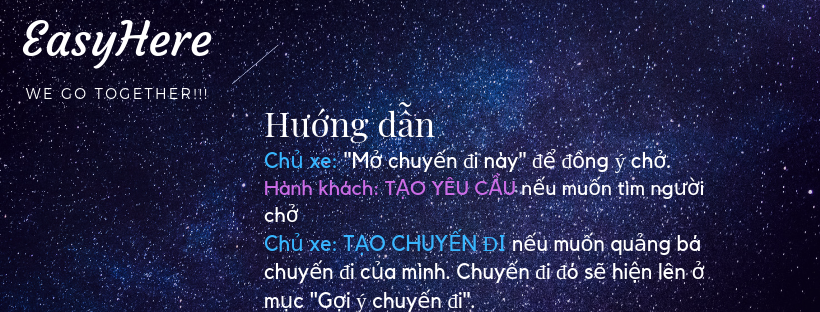
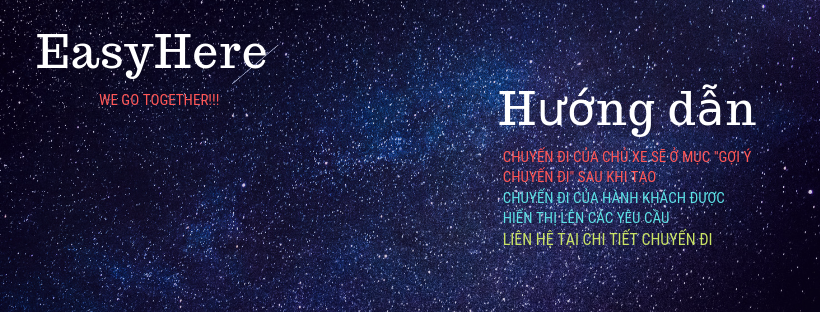
remove tao yeu cau

diff --git a/application/controllers/Trip.php b/application/controllers/Trip.php
@@ -260,7 +260,37 @@ class Trip extends CI_Controller {
 
         display('detail_trip', $data);    
     }
-
+    public function execute_with_data($data_sql){
+        unset($data_sql['code']);
+        $data_sql['asker'] = $data_sql['owner'];
+        unset($data_sql['owner']);
+        if ($this->needed_trip_ml->add_into($data_sql)){
+            $insert_id = $this->db->insert_id();
+            $link = 'click vào link <a href="'.site_url('trip/edit_need/'.$insert_id).'"> này </a> để xem yêu cầu vừa tạo.';
+            $message = get_message_success('Bạn đã tạo tạo yêu cầu thành công!<br>', $link);         
+            
+            /* Send for all of users who checked noti_email */
+            $string_from = $this->place_ml->get_by_primary($data_sql['start_from'])['name'];
+            $string_finish = $this->place_ml->get_by_primary($data_sql['finish_to'])['name'];
+            $header = 'Yêu cầu mới!_';
+            $content = 'Có một yêu cầu từ  '.$string_from. ' đến '.$string_finish.' vào lúc '.$data_sql['timestart'].' với giá '.$data_sql['price'].'đ. Bạn có thể nhận chuyến này không?';   
+            foreach ($this->user_ml->get_users_check_notif_email() as $user){                        
+                $email = $this->verify_ml->get_email($user['username']);
+                if ($email){
+                    $datasql = [
+                        'email' => $email, 
+                        'content' => $header.$content,
+                        'created_at' => get_current_time()
+                    ];
+                    $this->queue->add($datasql);                            
+                }                                        
+            }
+            /* Process in the queue */                                 
+            shell_exec('php '.escapeshellarg(FCPATH.'index.php')." queueprocess >/dev/null 2>/dev/null &");                    
+            /********        *******/
+            return ['message' => $message];
+        }    
+    }
     public function create_ask_trip(){
         if (!$this->session->userdata('user_logged')){
             redirect('login');
@@ -334,7 +364,11 @@ class Trip extends CI_Controller {
         } */       
         
         $data = ['owner' => $username, 'message'=>'', '_places' => $this->place_ml->get_all()];
-        
+        $current_user = $this->user_ml->get_by_primary($username);
+        if ($current_user['role'] == null){
+            redirect('trip/cap_nhat_thong_tin');
+        }
+
         if ($this->input->post()){            
             $check = $this->trip_ml->preparing_data();                        
             if ($check['status'] === false){
@@ -342,15 +376,37 @@ class Trip extends CI_Controller {
             }    
             else{
                 $data_sql = $check['data'];
-                // Tạo chuyến đi mới
-                if ($this->trip_ml->add_into($data_sql)){
-                    $insert_id = $this->db->insert_id();
-                    $link = 'click vào link <a href="'.site_url('trip/edit/'.$insert_id).'"> này </a> để xem chuyến đi vừa tạo.';
-                    $data['message'] = get_message_success('Bạn đã tạo chuyến đi thành công!<br>', $link);
-                }
+                // if la chu xe thi tao chuyen di
+                // neu la hanh khach thi tao yeu cau
+                if ($current_user['role'] != null){
+                    if ($current_user['role'] == 'chu_xe'){
+                        // Tạo chuyến đi mới
+                        if ($this->trip_ml->add_into($data_sql)){
+                            $insert_id = $this->db->insert_id();
+                            $link = 'click vào link <a href="'.site_url('trip/edit/'.$insert_id).'"> này </a> để xem chuyến đi vừa tạo.';
+                            $data['message'] = get_message_success('Bạn đã tạo chuyến đi thành công!<br>', $link);
+                        }
+                        else{
+                            $data['message'] = get_message_error('Tạo chuyến đi thất bại!');
+                        }
+                    }
+                    else{
+                        // tao yeu cau
+                        $info = $this->execute_with_data($data_sql);
+                        $data['message'] = $info['message'];                        
+                    }
+                }                     
                 else{
-                    $data['message'] = get_message_error('Tạo chuyến đi thất bại!');
-                }            
+                    // Tạo chuyến đi mới
+                    if ($this->trip_ml->add_into($data_sql)){
+                        $insert_id = $this->db->insert_id();
+                        $link = 'click vào link <a href="'.site_url('trip/edit/'.$insert_id).'"> này </a> để xem chuyến đi vừa tạo.';
+                        $data['message'] = get_message_success('Bạn đã tạo chuyến đi thành công!<br>', $link);
+                    }
+                    else{
+                        $data['message'] = get_message_error('Tạo chuyến đi thất bại!');
+                    }
+                }       
             }
         }
 
@@ -759,6 +815,13 @@ class Trip extends CI_Controller {
         $data = [
             'title' => 'Bạn đã mở một yêu cầu tương tự thành công!',
             'content' => 'Click vào <a href="'.site_url('trip/detail_need/'.$trip_id).'"> đây </a> để xem yêu cầu vừa tạo'  
+        ];
+        display('action_info', $data);
+    }
+    public function cap_nhat_thong_tin(){        
+        $data = [
+            'title' => 'Bạn là ai?',
+            'content' => 'Xin hãy cập nhật thông tin rằng bạn là Chủ xe hay Hành khách. Việc này sẽ giúp chúng tôi đưa ra những thông tin phù hợp hơn cho bạn.</br> <h3> Click vào <a href="'.site_url('edit_profile').'"> đây </a> để cập nhật và thực hiện lại thao tác.<br></h3> EasyHere xin chân thành cám ơn. '  
         ];
         display('action_info', $data);
     }

diff --git a/application/views/public/create_trip.php b/application/views/public/create_trip.php
@@ -40,16 +40,7 @@
                             <!-- Card content -->
                             <div class="card-body text-center">
                                 <!-- Edit Form -->
-                                <form method="post">
-                                    <div class="row">
-                                        <div class="col-md-12">
-                                            <div class="alert alert-info"> 
-                                                <strong>Lưu ý:</strong>                                                
-                                                Nếu tạo chuyến đi, nghĩa là bạn đang là chủ xe và đang cần tìm người để chở.
-                                                Nếu bạn muốn được chở, hãy bấm vào <a href="<?= base_url('trip/create_ask_trip') ?>"> đây </a> để tạo yêu cầu.
-                                            </div>  
-                                        </div>
-                                    </div>  
+                                <form method="post">                                   
                                     <div class="row">
                                         <div class="col-md-12">
                                             <?php echo $message; ?>
@@ -102,10 +93,25 @@
                                         <!--First column-->
                                         <div class="col-md-3">
                                             <div class="md-form mb-0">
-                                                <input type="text" id="form1" class="form-control validate" value="<?php echo $this->session->userdata('username'); ?>" disabled>
-                                                <label for="form2" data-error="wrong" data-success="right">Bạn là</label>
+                                                <?
+                                                $role = $this->user_ml->get_by_primary($this->session->userdata('username'));
+                                                if (isset($role['role'])){
+                                                    $role = $role['role'];
+                                                    if ($role == 'chu_xe'){
+                                                        $role = 'Chủ xe';
+                                                    }
+                                                    else{
+                                                        $role = 'Hành khách';
+                                                    }
+                                                }
+                                                else{
+                                                    $role = 'wrong';
+                                                }
+                                                ?>
+                                                <input type="text" id="form1" class="form-control validate" value="<?= $role ?>" disabled>
+                                                <label for="form2" data-error="wrong" data-success="right">Bạn là?</label>
                                             </div>
-                                        </div>
+                                        </div>    
                                         <div class="col-md-3">
                                             <div class="md-form mb-0">
                                                 <input type="number" id="form1" class="form-control validate" value="" name="price">

diff --git a/application/views/public/home.php b/application/views/public/home.php
@@ -479,7 +479,13 @@
                                                             }
                                                             else{
                                                                 $free = '<span class="badge badge-info mb-2">'.$trip['price'].'đ</span> <br>';
-                                                            }                          
+                                                            }               
+                                                            $show = '<div class="card-footer pb-0">                                                            
+                                                            <a href='.site_url('trip/create_as_trip/'.$trip['id']).'><button class="btn aqua-gradient btn-rounded btn-sm">TẠO YÊU CẦU NHƯ THẾ NÀY</button></a>
+                                                        </div>';
+                                                            if ($this->session->userdata('role') == 'chu_xe'){
+                                                                $show = '';
+                                                            }
                                                             echo '<div class="col-lg-9 col-md-6 mb-4" >
 
                                                             <!--Card-->
@@ -499,9 +505,7 @@
                                                                     <span><strong> '.after($trip['timestart']).' ('.$trip['timestart'].')</strong></span>
                                                                     <a href='.site_url('review/detail/'.$owner['username']).'><button class="btn aqua-gradient btn-rounded btn-sm">'.$owner['full_name'].'</button></a>
                                                                     <!--Card footer-->
-                                                                    <div class="card-footer pb-0">                                                            
-                                                                        <a href='.site_url('trip/create_as_trip/'.$trip['id']).'><button class="btn aqua-gradient btn-rounded btn-sm">TẠO YÊU CẦU NHƯ THẾ NÀY</button></a>
-                                                                    </div>
+                                                                    '.$show.'                                                                    
                                                                 </div>
                                                                 <!--Card content-->
                             

diff --git a/application/views/public/edit_profile.php b/application/views/public/edit_profile.php
@@ -154,10 +154,31 @@ Licensed under MIT
                                     <!--First row-->
                                     <div class="row">                                        
                                         <!--Second column-->
-                                        <div class="col-md-6">
+                                        <div class="col-md-3">
                                             <div class="md-form mb-0">
                                                 <input type="text" id="form1" class="form-control validate" value="<?php echo $balance; ?>" disabled>
                                                 <label for="form2" data-error="wrong" data-success="right">Tài khoản chính</label>
+                                            </div>
+                                        </div>
+                                        <!--First column-->
+                                        <div class="col-md-3">
+                                            <div class="md-form mb-0">
+                                            <select class="browser-default custom-select mb-4" name="role">
+                                              <?
+                                              if ($role == null){
+                                                echo '<option value="" disabled selected>Bạn là?</option>
+                                                <option value="chu_xe" >Chủ xe</option>
+                                                <option value="hanh_khach" >Hành khách</option>';
+                                              }                                           
+                                              else if ($role == 'chu_xe'){
+                                                echo '<option value="chu_xe" >Chủ xe</option>
+                                                <option value="hanh_khach" >Hành khách</option>';
+                                              } else {
+                                                echo '<option value="hanh_khach" >Hành khách</option>
+                                                <option value="chu_xe" >Chủ xe</option>';
+                                              }
+                                              ?>                                                                                               
+                                              </select> 
                                             </div>
                                         </div>
                                             <!-- Material inline 1 -->

diff --git a/application/views/public/create_needed_trip.php b/application/views/public/create_needed_trip.php
@@ -111,8 +111,23 @@
                                         </div>       
                                         <div class="col-md-3">
                                             <div class="md-form mb-0">
-                                                <input type="text" id="form1" class="form-control validate" value="<?php echo $this->session->userdata('username'); ?>" disabled>
-                                                <label for="form2" data-error="wrong" data-success="right">Người yêu cầu</label>
+                                                <?
+                                                $role = $this->user_ml->get_by_primary($this->session->userdata('username'));
+                                                if (isset($role['role'])){
+                                                    $role = $role['role'];
+                                                    if ($role == 'chu_xe'){
+                                                        $role = 'Chủ xe';
+                                                    }
+                                                    else{
+                                                        $role = 'Hành khách';
+                                                    }
+                                                }
+                                                else{
+                                                    $role = 'wrong';
+                                                }
+                                                ?>
+                                                <input type="text" id="form1" class="form-control validate" value="<?= $role ?>" disabled>
+                                                <label for="form2" data-error="wrong" data-success="right">Bạn là?</label>
                                             </div>
                                         </div>                                        
                                     </div>                                                                                                           

diff --git a/application/views/template/header.php b/application/views/template/header.php
@@ -141,11 +141,7 @@ function beep() {
                                                                               
                        <?php
                        if (!$this->session->userdata('user_logged')){
-                        echo '<li class="nav-item">
-                            <a href="'.site_url('trip/create_ask_trip').'" class="btn btn-primary btn-sm">
-                                tạo yêu cầu
-                            </a>
-                        </li>
+                        echo '
                         <li class="nav-item">
                             <a href="'.site_url('trip/create').'" class="btn btn-info btn-sm">
                                 tạo chuyến đi
@@ -201,11 +197,7 @@ function beep() {
                                 </a>
                             </li>                                                   
                            ';
-                           echo '<li class="nav-item">
-                           <a href="'.site_url('trip/create_ask_trip').'" class="btn btn-primary btn-sm">
-                               tạo yêu cầu
-                           </a>
-                       </li>
+                           echo '
                        <li class="nav-item">
                            <a href="'.site_url('trip/create').'" class="btn btn-info btn-sm">
                                tạo chuyến đi

diff --git a/application/models/User_ml.php b/application/models/User_ml.php
@@ -6,8 +6,8 @@ class User_ml extends Quickaccess
 	protected $primary = 'username';
 	protected $db_table = 'user';
 	protected $personal_info = ['username', 'password'];
-	protected $editable_fields = ['username','full_name', 'gender', 'password'];
-	protected $fields = ['facebook', 'phone_num', 'gender', 'university', 'subject', 'noti_email', 'full_name'];	
+	protected $editable_fields = ['username','full_name', 'gender', 'password', 'role'];
+	protected $fields = ['facebook', 'phone_num', 'gender', 'university', 'subject', 'noti_email', 'full_name', 'role'];	
 	private $security;
 
 	public function __construct()
@@ -35,6 +35,7 @@ class User_ml extends Quickaccess
 		foreach ($this->fields as $field){
 			if (!empty($this->input->post($field))){
 				$data[$field] = hashCode($this->input->post($field));
+				$this->session->set_userdata($field, $data[$field]);
 			}
 			else{
 				if ($field === 'noti_email'){

diff --git a/application/views/public/detail_need.php b/application/views/public/detail_need.php
@@ -127,7 +127,7 @@
                                     </div> 
                                     <?php   
                                     $trip_detail = $this->trip_ml->get_by_primary($trip['trip_id']);
-                                    if ($trip_detail == null){
+                                    if ($trip_detail == null && $this->session->userdata('role') == 'chu_xe'){
                                         echo '
                                         <div class="row">
                                             <div class="col-md-12 text-center my-4">

diff --git a/application/controllers/Home.php b/application/controllers/Home.php
@@ -31,6 +31,14 @@ class Home extends CI_Controller {
     }       
     
     public function index(){                    
+
+        if ($this->session->userdata('user_logged')){
+            $current_user = $this->user_ml->get_by_primary($this->session->userdata('username'));
+            if ($current_user['role'] == null){
+                redirect('trip/cap_nhat_thong_tin');
+            }
+        }
+
         $data = array(
             'needed_trips' => get_slice($this->all_need_trips, 0, $this->limit_per_page),
             'no_trips' => $this->trip_no_people,
